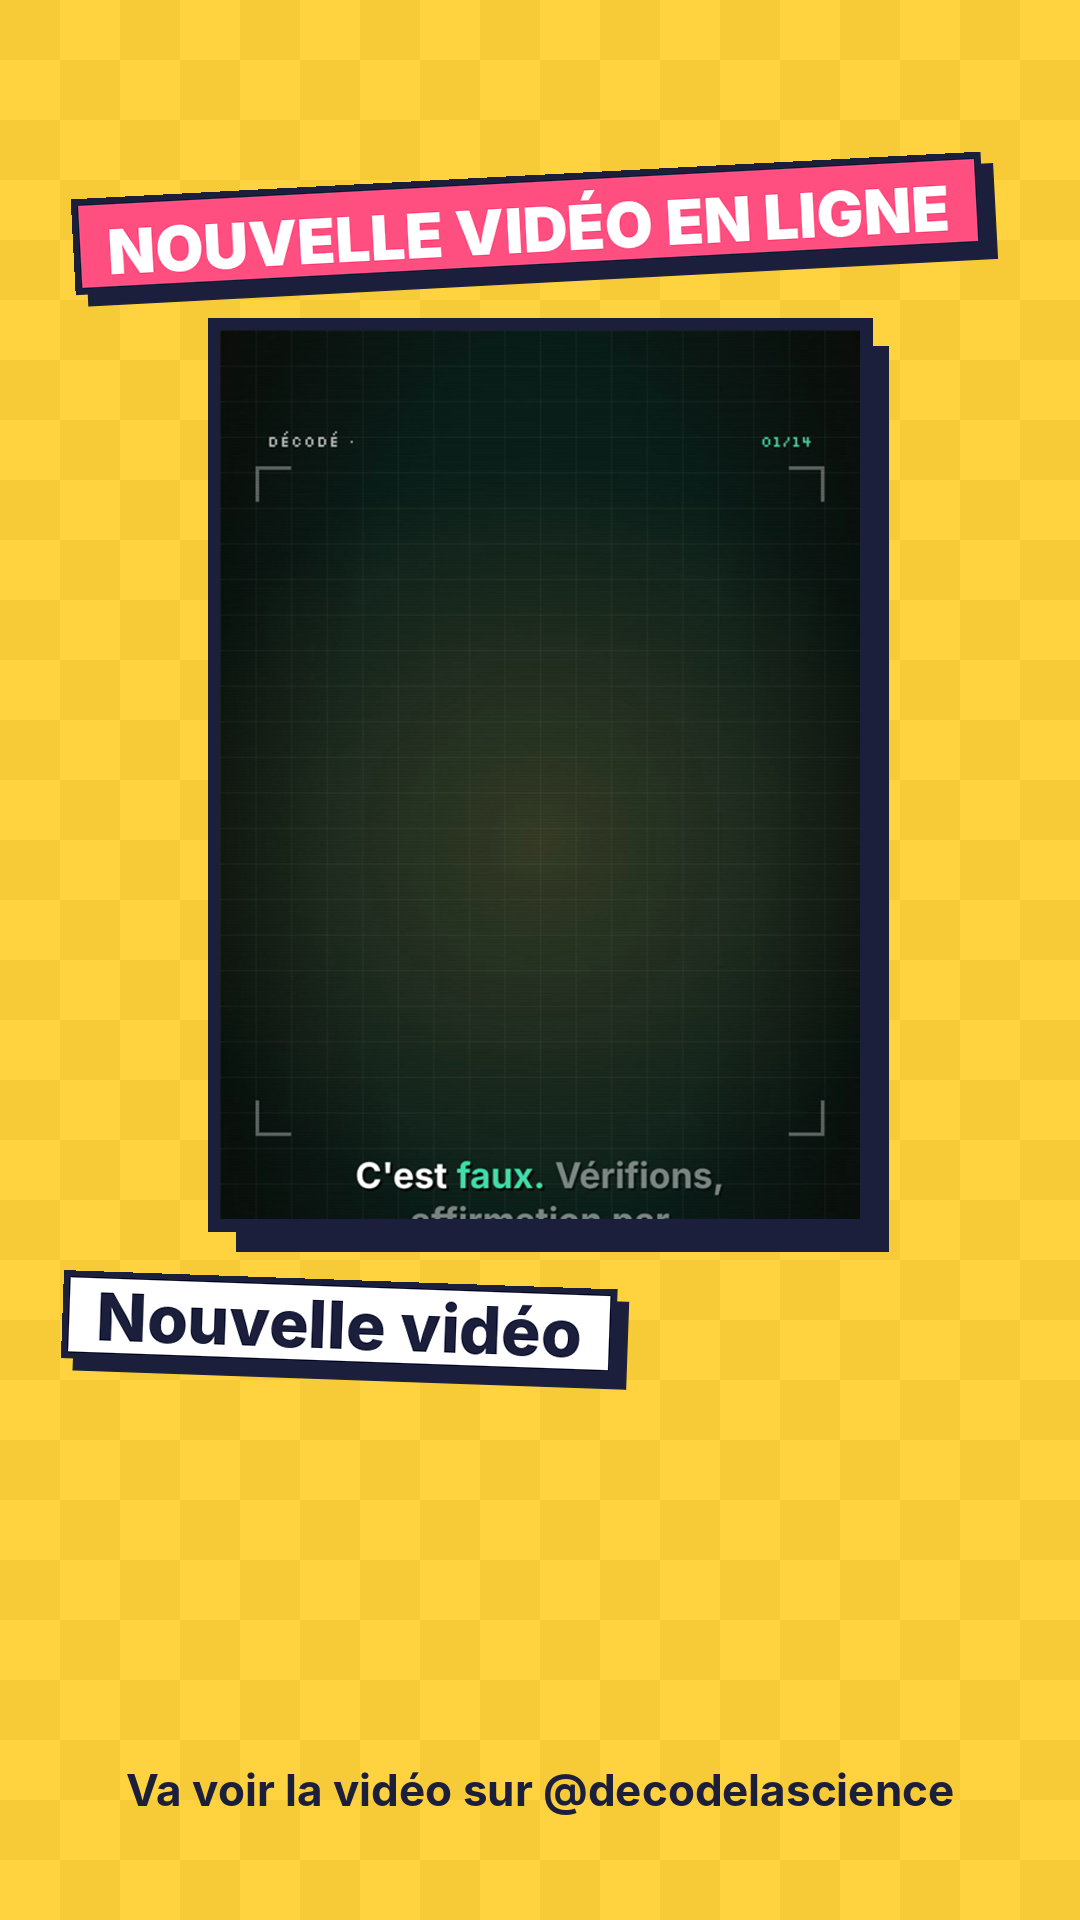
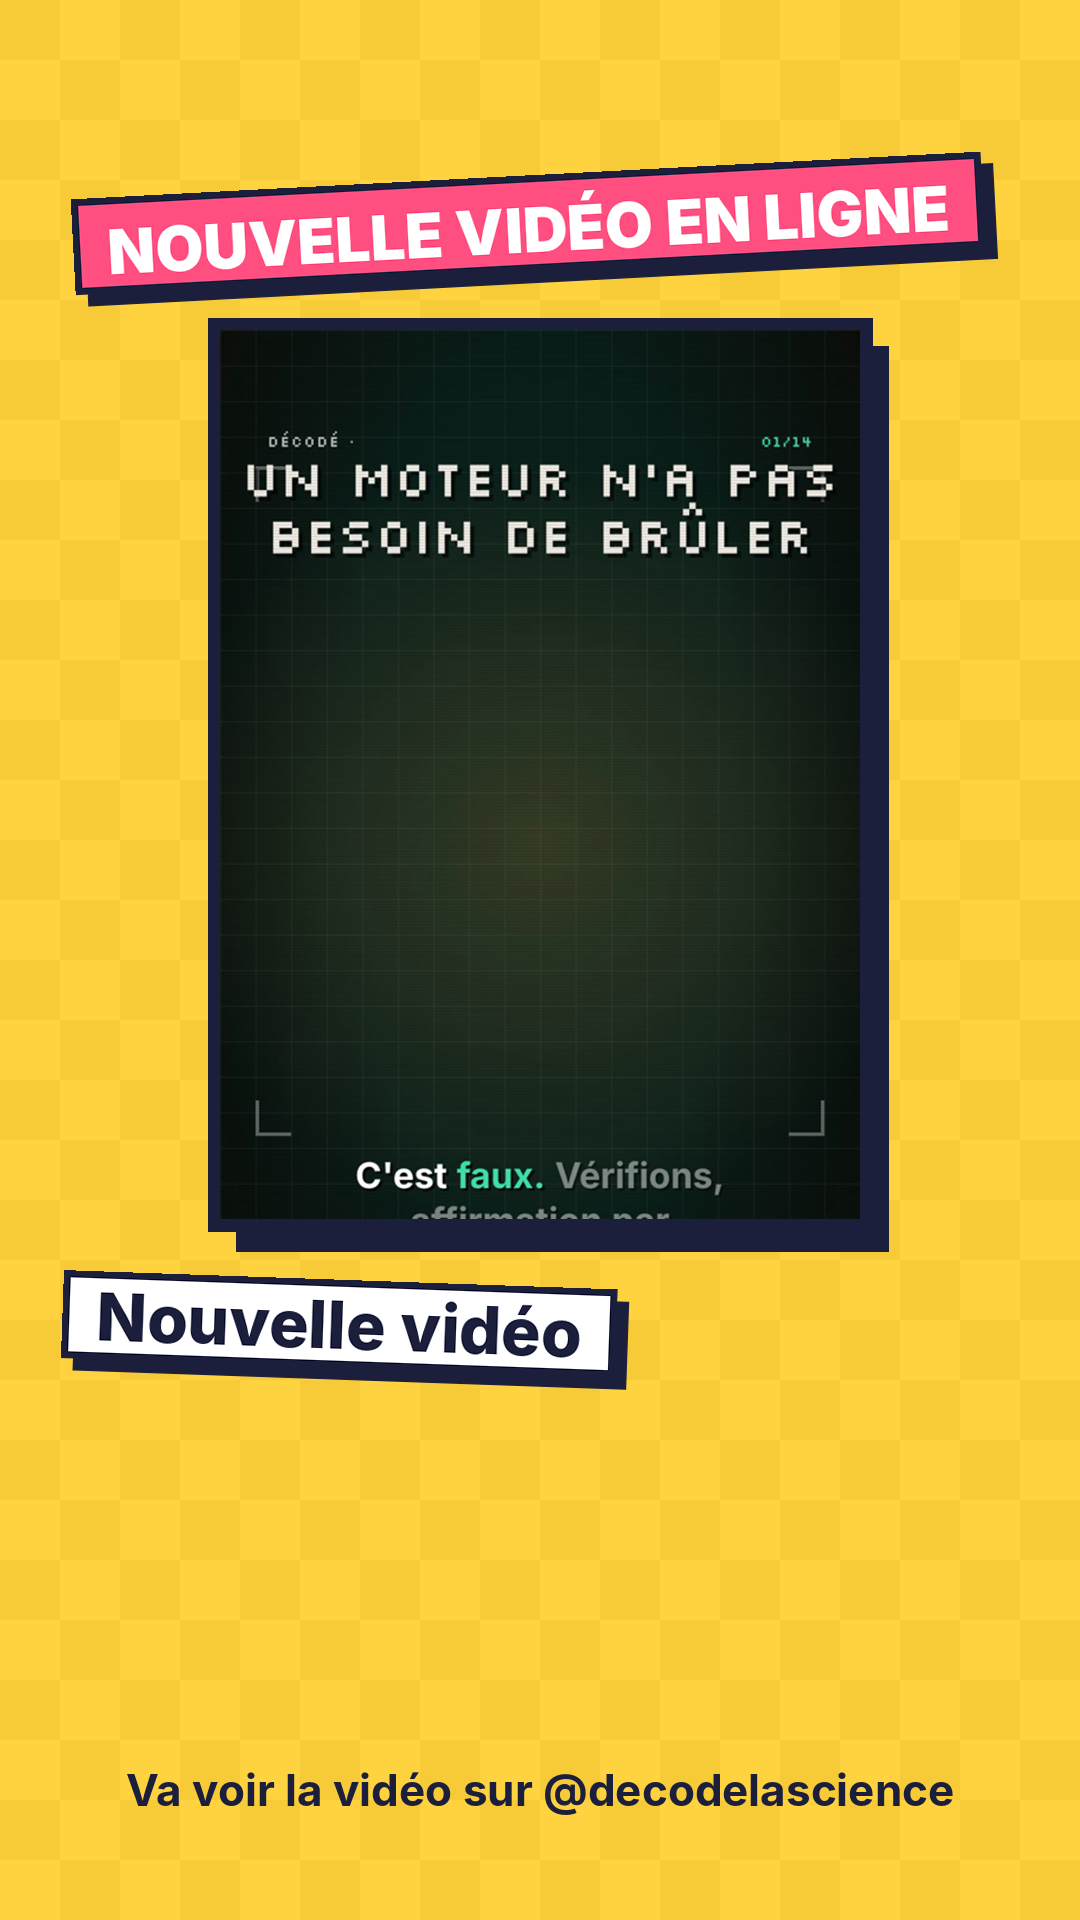
critique : le rendu de contrôle est muet par conception

Changed region(s): [[0.2139, 0.2188, 0.5194, 0.3125], [0.55, 0.2188, 0.7639, 0.3125]]

diff --git a/.claude/agents/agent-7-critique.md b/.claude/agents/agent-7-critique.md
@@ -13,3 +13,5 @@ Tu es l'**Agent 7** de Décodé Studio. Mission unique : Pré-critique (scénari
 
 **Tu ne fais jamais** : le travail d'un autre agent, de mail, de publication, de modification du code (sauf agent 8),
 d'invention de chiffre ou de citation. En cas de doute sur un fait : tu le retires.
+
+**Rendu de contrôle muet (04/11)** : `video.mp4` produit dans la session est un rendu de contrôle SANS audio (`PIXELS_HORS_LIGNE=1`) ; voix et musique sont ajoutées au rendu final par GitHub (reels-media) après `tool drop`. Ne JAMAIS déclarer « voix absente » à cause d'un fichier sans piste audio : la voix se vérifie dans `7_spec.json` (`voix_override.narrateur` et `mascotte` présents, dialogues non vides).
